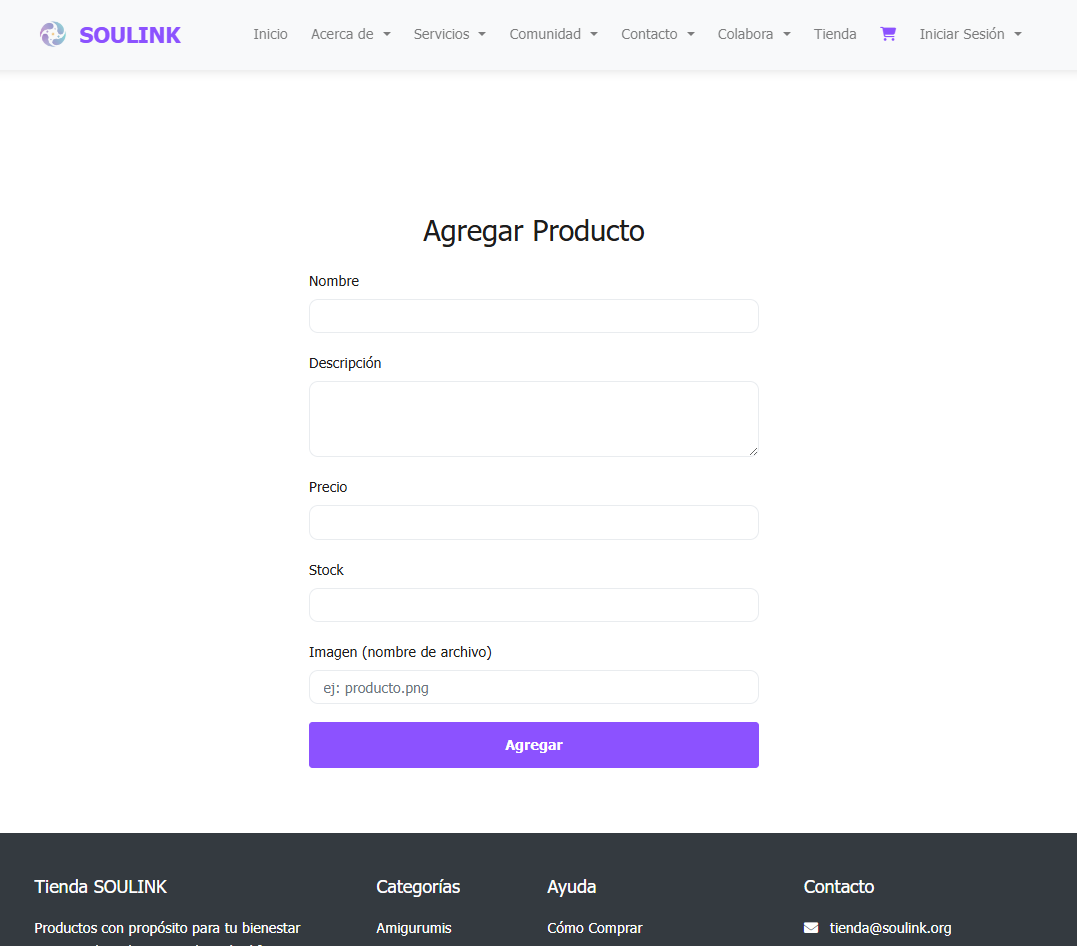
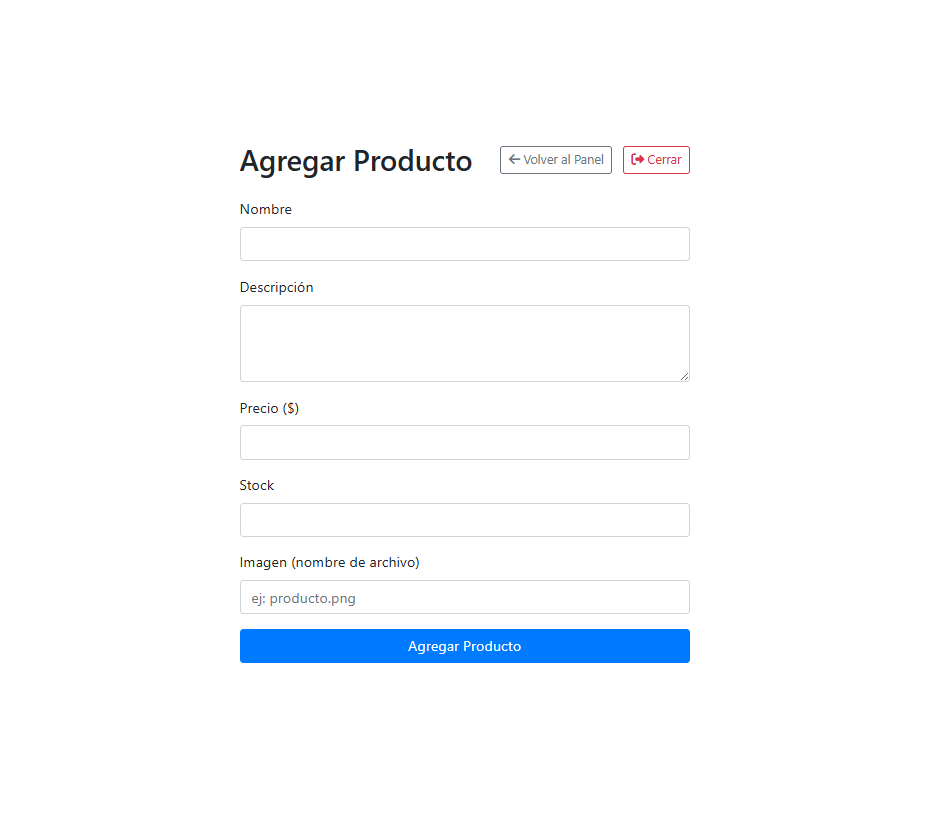
feat: remover archivo html innecesario

diff --git a/README.md b/README.md
@@ -107,35 +107,47 @@ Tu contribución ayuda a:
 
 ## 📁 Estructura del Proyecto
 ```
-proyecto-soulink/          
-├── assets/images               
-│             ├── Conejo/        
-│             ├── MerchConsejin/        
-│             └── team/      
-├── pages/                  
-│     ├── acerca.html         
-│     ├── servicios.html      
-│     ├── contacto.html             
-│     ├── admin.html             
-│     ├── tienda.html
-│     ├── carrito.html
-│     ├── colaboraciones.html
-│     ├── agregar-articulo.html   
-│     ├── agregar-producto.html  
-│     ├── login.html  
-│     └── comunidad.html   
+proyecto-soulink/
+├── assets/images
+│   ├── Conejo/
+│   ├── MerchConsejin/
+│   └── team/
+├── pages/
+│   ├── acerca.html
+│   ├── servicios.html
+│   ├── contacto.html
+│   ├── tienda.html
+│   ├── carrito.html
+│   ├── configuracion.html
+│   ├── colaboraciones.html
+│   ├── perfil.html
+│   ├── login.html
+│   ├── comunidad.html
+│   └── admin/
+│       ├── index.html
+│       ├── admin_login.html
+│       ├── panel_admin.html
+│       ├── agregar-producto.html
+│       ├── agregar-articulo.html
+│       └── js/
+│           ├── login_admin.js
+│           └── admin-protection.js
 ├── js/
-|    ├── darkmode.js   
-│    └── soulink.js                
-├── css/             
-│     ├── admin.css        
-│     ├── responsive.css
-│     └── styles.css
-├── data/     
-│      └── productos.json
+│   ├── login.js
+│   └── soulink.js
+├── css/
+│   ├── responsive.css
+│   └── styles.css
+├── data/
+│   ├── usuarios.json
+│   └── productos.json
+├── database/
+│   ├── DER_soulink.png        
+│   └── soulink.sql
 ├── README.md
-├── index.html                 
-└── .gitignore     
+├── index.html
+├── ACCESO LOGIN Y ADMIN.txt
+└── .gitignore
     
 ```
 ## 📸 Screenshot 1 - Sección "Acerca de"
@@ -158,20 +170,42 @@ proyecto-soulink/
 
 ![Artículos](assets/images/ss-Articulos.png)
 
-## 📸 Screenshot 6 - Formulario "Agregar Producto"
+## 📸 Screenshot 6 - Formulario ADMIN "Agregar Articulo o Agregar Producto"
 
-![Agregar Producto](assets/images/ss-BOTON-AgregarProducto.png)
-![Agregar Producto](assets/images/ss-Formulario-AgregarProducto.png)
+![Agregar Articulo y Producto](assets/images/ss_agregarproducto-articulo.png)
 
+## 📸 Screenshot 7 - Login validar: Nombre - Numero - Mail - Contraseña
 
-*Formulario para añadir nuevos productos a la tienda, con campos de título, descripción y precio.*
+![ValidacionesLogin](assets/images/ss_validacionlogin.png)
 
-## 📸 Screenshot 7 - Formulario "Agregar Articulo"
+## 📸 Screenshot 8 - Login Usuario
 
-![Agregar Producto](assets/images/ss-BOTON-AgregarArticulo.png)
-![Agregar Producto](assets/images/ss-Formulario-AgregarArticulo.png)
+![LoginAceptado](assets/images/ss_loginclienteaceptado.png)
 
-*Formulario para añadir nuevos productos a la tienda, con campos de título, descripción y precio.*
+## 📸 Screenshot 9 - Configuracion Usuario
+
+![Configuracion Usuario](assets/images/ss_configuracionperfil.png)
+
+## 📸 Screenshot 10 - Perfil Usuario
+
+![Perfil Usuario](assets/images/ss_perfilusuario.png)
+
+## 📸 Screenshot 11 - Login ADMIN
+
+![LoginAdmin](assets/images/ss_loginadmin.png)
+![LoginAdmin2](assets/images/ss_loginadmin2.png)
+
+## 📸 Screenshot 12 - Tablas en DBeaver
+
+![Tablas](assets/images/ss_TablasPostgreSQL.png)
+
+## 📸 Screenshot 13 - Consulta Clientes
+
+![Consulta Clientes](assets/images/ss_ConsultaTablas.png)
+
+## 📸 Screenshot 14 - DER Soulink
+
+![DER Soulink](assets/images/DER_soulink.png)
 
 
 
